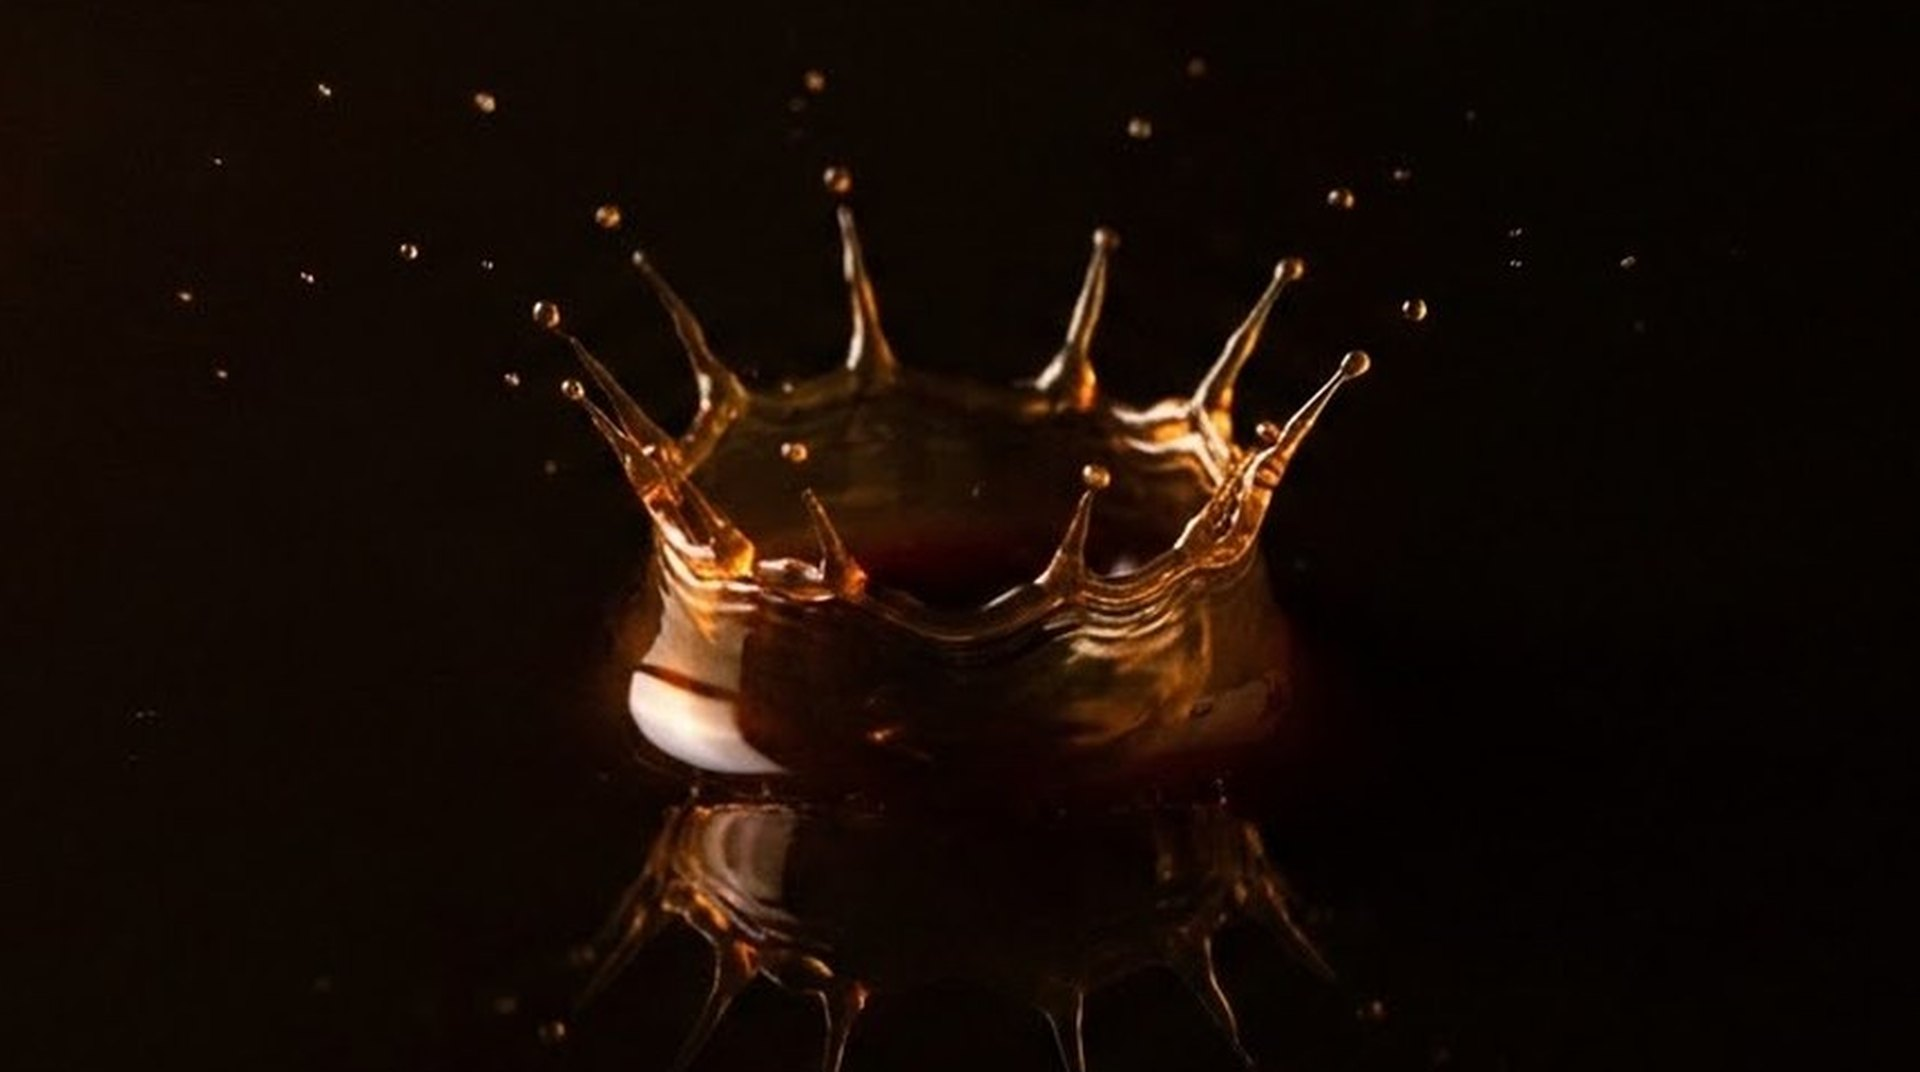
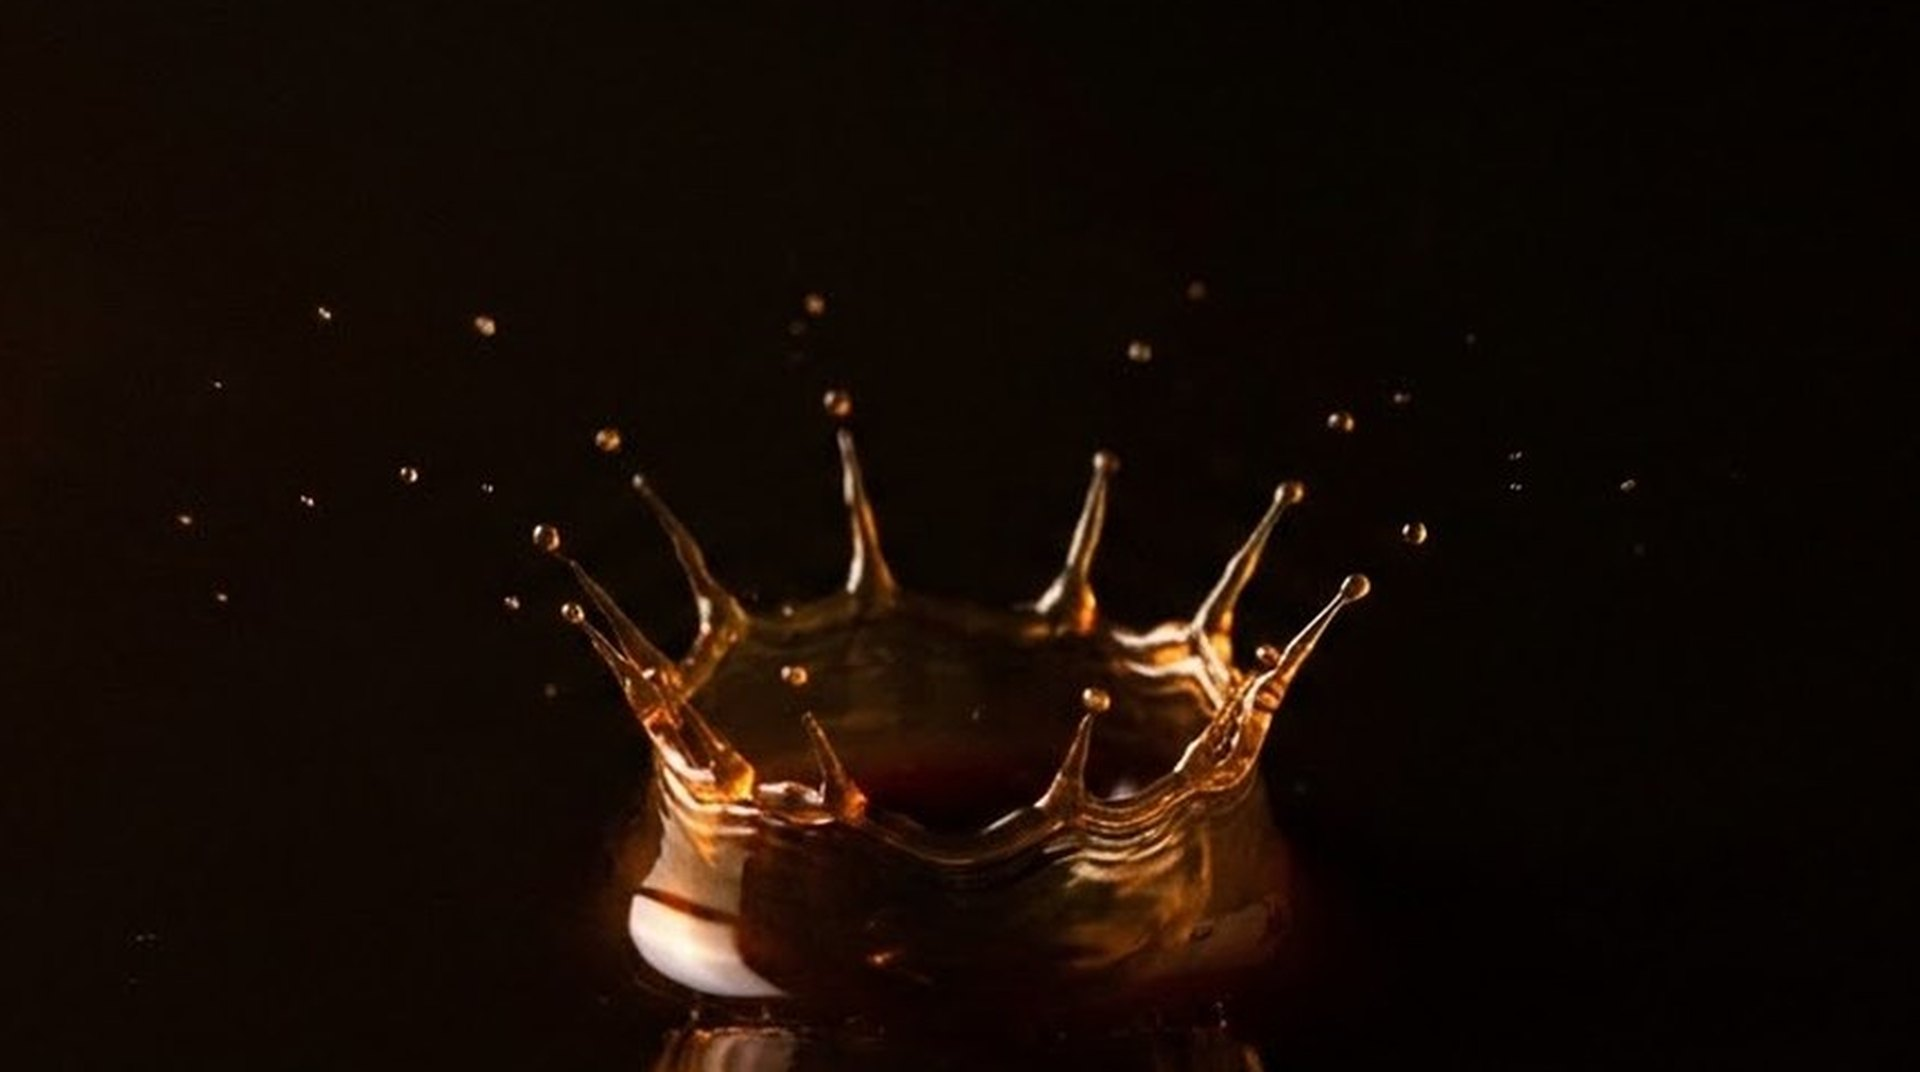
Card pills 44 px; recipe's last pills 8 px over the bottom bar; little Goccio springs out of the + on load; bubbles swell like liquid, dots wave; hero crowns lower; day band 43 px
Claude-Session: https://claude.ai/code/session_01EG6ZDxoaH6KaZCh5hGnxQT

diff --git a/index.html b/index.html
@@ -82,6 +82,11 @@ html body #shelf .item .name:not(.nb){line-height:.98!important}
    pushed down to line up with the card beside them (27/11/2026) */
 html body #shelves .shelf > .item:not(.brewing) > .r{margin-top:var(--below-name, 13px)!important}
 @media (min-width:900px){ html body #shelves .shelf > .item:not(.brewing) > .r{--below-name:10.5px} }
+/* Brew and Buy as tall as the bottom bar's buttons (Cancel, Start brewing): 44 px (27/11/2026) */
+html body .shelf .item > .r > .btn, html body .shelf .item > .r > .pill, html body .shelf .item > .r > .buy-p{height:44px!important;padding:0 16px!important}
+html body .shelf .item > .r > .row-more, html body .shelf .item > .r > .bag-add.ico{width:44px!important;height:44px!important}
+/* the recipe's last buttons (Buy, copy, share) stop as far above the bottom bar's line as its buttons sit below it: 8 px (27/11/2026) */
+@media (max-width:899px){ html.brew-in body .item.brewing{padding-bottom:0!important} html.brew-in body .item.brewing #recipe{padding-bottom:0!important} html.brew-in body .item.brewing #recipe .share{margin-bottom:-10.5px} }
 /* the name stays the big line; the roaster's own notes come right under it, in ink, a size up from the small lines (27/11/2026) */
 #shelf .item .c-notes.nb-line{font:500 24px/1.2 var(--sans);letter-spacing:-.02em;color:var(--ink);margin:4px 0 8px;text-wrap:pretty}
 @media (min-width:1000px){ #shelf .item .c-notes.nb-line{font-size:24px} }
@@ -2847,8 +2852,8 @@ html[data-theme="light"]:is(.film-off,.hero-done) body .wm-screen .wordmark, htm
 html[data-theme="light"]:is(.film-off,.hero-done) body .wm-more .wm-bag{background:var(--pill)!important;color:var(--ink)!important}
 /* the still behind the header once the film has played (seen today): a coffee crown in dark, a milk crown in light, the two splashes
    in the same place (27/11/2026) */
-html.film-off:not([data-theme="light"]) body .wm-screen{background:#000 url("/img/goccio-hero-coffee.jpg?v=2") center var(--hero-y, 62%) / cover no-repeat!important}
-html[data-theme="light"]:is(.film-off,.hero-done) body .wm-screen{background:var(--bg) url("/img/goccio-hero-milk.jpg?v=2") center var(--hero-y, 62%) / cover no-repeat!important}
+html.film-off:not([data-theme="light"]) body .wm-screen{background:#000 url("/img/goccio-hero-coffee.jpg?v=3") center var(--hero-y, 92%) / cover no-repeat!important}
+html[data-theme="light"]:is(.film-off,.hero-done) body .wm-screen{background:var(--bg) url("/img/goccio-hero-milk.jpg?v=3") center var(--hero-y, 92%) / cover no-repeat!important}
 html[data-theme="light"]:is(.film-off,.hero-done) body .wm-screen::after{opacity:1!important;background:linear-gradient(180deg, transparent 55%, var(--bg) 100%)!important}   /* the milk melts into the page */
 /* the film starts at the very top of the screen, under a see-through top bar, and ends on the rule over Coffees */
 html body .wm-video{transform:none!important}
@@ -3132,7 +3137,7 @@ html body .wb-sign .gd-ask input{font-size:15px!important}   /* one size in the 
 /* Goccio thinking: three dots flowing after its words */
 html body .gd-dots{display:inline-flex;gap:3px;margin-left:6px;vertical-align:middle}
 html body .gd-dots i{width:5px;height:5px;border-radius:50%;background:currentColor;animation:gdDot 1.1s ease-in-out infinite}
-html body .gd-dots i:nth-child(2){animation-delay:.18s} html body .gd-dots i:nth-child(3){animation-delay:.36s}
+html body .gd-dots i:nth-child(2){animation-delay:.15s} html body .gd-dots i:nth-child(3){animation-delay:.3s}
 @keyframes gdDot{0%,70%,100%{opacity:.25;translate:0 0}35%{opacity:1;translate:0 -3px}}
 @media (prefers-reduced-motion:reduce){html body .gd-dots i{animation:none;opacity:.6}}
 html body .gd-intro-move{display:flex;align-items:center;justify-content:space-between;gap:12px;margin-top:12px}
@@ -3157,7 +3162,8 @@ html body .gd-typing .gd-dots{margin-left:4px}
 /* the typing bubble, as in iMessage (26/11/2026): a fixed little pill, three even grey dots in its middle that fade in turn */
 html body .gd-m.gd-it.gd-typing:not(:has(> :not(.gd-dots))){display:inline-flex;align-items:center;justify-content:center;box-sizing:border-box;width:58px;height:37px;padding:0}
 html body .gd-m.gd-it.gd-typing:not(:has(> :not(.gd-dots))) .gd-dots{margin:0;gap:5px;color:var(--muted)}
-html body .gd-m.gd-it.gd-typing:not(:has(> :not(.gd-dots))) .gd-dots i{width:7px;height:7px;animation:gdDotFade 1.2s ease-in-out infinite}
+html body .gd-m.gd-it.gd-typing:not(:has(> :not(.gd-dots))) .gd-dots i{width:7px;height:7px;animation:gdDotWave 1.1s ease-in-out infinite}
+@keyframes gdDotWave{0%,55%,100%{translate:0 0;opacity:.45}25%{translate:0 -4px;opacity:1}}   /* the three dots go up and down one after the other, a wave (27/11/2026) */
 @keyframes gdDotFade{0%,60%,100%{opacity:.3;scale:.85}30%{opacity:1;scale:1}}
 @keyframes gdMsgIn{from{scale:.85;opacity:0}to{scale:1;opacity:1}}
 @keyframes gdTb{from{scale:0}to{scale:1}}
@@ -3536,7 +3542,8 @@ html.no-recipe #coffee{min-height:calc(100svh - var(--top-h, 49px) - var(--bot-h
 html:not(.ro-page) body #sh .sh-t{position:absolute!important;width:1px!important;height:1px!important;overflow:hidden!important;clip:rect(0 0 0 0)!important;white-space:nowrap!important}
 html:not(.ro-page) body #shelves > .sec-head:not(:has(.fy-pill:not([hidden]))){height:0!important;min-height:0!important;margin:7px 0 0!important;padding:0!important;overflow:hidden!important}
 html:not(.ro-page) body #shelf > .grp.day-g:first-child, html:not(.ro-page) body #shelf > .grp.bare:first-child + .grp.day-g{margin-top:0!important}
-html:not(.ro-page) body #shelves > #shelf{margin-top:-3.5px!important}   /* and the rule above sits as far under "Every new coffee, with its recipe." as that line sits under the buttons (7 px more room above the rule) */   /* "208 coffees added today" exactly halfway between the rule above it and the one below (11.5 px each side, phone and computer) */
+html:not(.ro-page) body #shelves > #shelf{margin-top:-3.5px!important}
+html:not(.ro-page) body #shelves > .co-tabs ~ #shelf#shelf{margin-top:-2px!important}   /* under the kinds row, the day band is 43 px from line to line, as the row is (it was 41.5, 27/11/2026) */   /* and the rule above sits as far under "Every new coffee, with its recipe." as that line sits under the buttons (7 px more room above the rule) */   /* "208 coffees added today" exactly halfway between the rule above it and the one below (11.5 px each side, phone and computer) */
 html:not(.ro-page) body #shelf > .grp.day-g:not(.stuck) .day-t{visibility:visible!important}
 html:not(.ro-page) body #shelf > .grp.day-g .day-what{display:inline!important}
 html:not(.ro-page) body #shelf > .grp.day-g:not(.stuck)::after{opacity:1!important}
@@ -3551,7 +3558,7 @@ html body #askLbl{position:absolute!important;width:1px!important;height:1px!imp
 /* 27/11/2026, the same air either side of every line in the list: a coffee's Brew and Buy sit as far above its closing line (16 px) as its
    roaster's name sits under the line that opens it; the day's count sits in the exact middle of its two lines (cap height to baseline) */
 html body #shelf .item{padding-bottom:16px!important}
-html body #shelf > .grp.day-g .day-t{position:relative;top:.25px}   /* the words midway between the line above and the line below (27/11/2026) */
+html body #shelf > .grp.day-g .day-t{position:relative;top:-.25px}   /* the words midway between the line above and the line below (27/11/2026) */
 
 /* 27/11/2026, a roaster's page: its top line as far under "Read the bag" as the list's line on the homepage, and Visit shop and Follow
    in a row under the place line, as Brew and Buy sit under a coffee, the same 16 px over the closing line */
@@ -12075,8 +12082,11 @@ html.ro-page body #roHead{margin-top:-6px!important}   /* the place line a littl
           // bubble, and the words fade in behind it
           if (ms && m.animate && !matchMedia("(prefers-reduced-motion: reduce)").matches) { const r1 = m.getBoundingClientRect(), ink = getComputedStyle(m).color, rr = getComputedStyle(m).borderRadius || "16px";
             const dx = Math.max(0, r1.width - r0.width), dy = Math.max(0, r1.height - r0.height);
-            m.animate([{ clipPath: `inset(0 ${dx}px ${dy}px 0 round 18px)` }, { clipPath: `inset(0 0 0 0 round ${rr})` }], { duration: 300, easing: "cubic-bezier(.2,.8,.2,1)" });
-            m.animate([{ color: "transparent" }, { color: "transparent", offset: 0.35 }, { color: ink }], { duration: 380, easing: "ease-out" }); }
+            // like liquid (27/11/2026): the dots' bubble swells into the message from its corner by Goccio, a touch past its size, then settles
+            const sx = Math.min(1, r0.width / r1.width), sy = Math.min(1, r0.height / r1.height);
+            m.style.transformOrigin = "0 100%";
+            m.animate([{ transform: `scale(${sx}, ${sy})` }, { transform: "scale(1.03, 1.05)", offset: 0.5 }, { transform: "scale(.992, .985)", offset: 0.75 }, { transform: "none" }], { duration: 520, easing: "cubic-bezier(.3,.7,.4,1)" });
+            m.animate([{ color: "transparent" }, { color: "transparent", offset: 0.4 }, { color: ink }], { duration: 480, easing: "ease-out" }); }
           if (!free) requestAnimationFrame(() => toTop(anchor)); }, ms); }
       showChips(chips); if (CALM) mood = null;
       if (ask2) { const g2 = sayGen, pl2 = nextPills || [[T("Yes", "Sì"), T("Yes", "Sì")], [T("No", "No"), T("No thanks", "No grazie")]]; nextPills = null;   /* "Want to see it?" in a second message once the first is written, then the Yes / No pills */
@@ -13276,7 +13286,15 @@ html.ro-page body #roHead{margin-top:-6px!important}   /* the place line a littl
         const watchBig = () => new IntersectionObserver((es) => es.forEach((e) => set(e.isIntersecting)), { threshold: .3 }).observe(el);
         if (!document.documentElement.classList.contains("wait")) watchBig();
         else new MutationObserver((m, o) => { if (document.documentElement.classList.contains("wait")) return; o.disconnect(); watchBig(); }).observe(document.documentElement, { attributes: true, attributeFilter: ["class"] });
-        plus.addEventListener("animationend", (e) => { if (e.animationName === "agGulp" || e.animationName === "agSpit" || (e.animationName === "drop-p" && plus.classList.contains("spit"))) plus.classList.remove("gulp", "spit"); }); } }
+        plus.addEventListener("animationend", (e) => { if (e.animationName === "agGulp" || e.animationName === "agSpit" || (e.animationName === "drop-p" && plus.classList.contains("spit"))) plus.classList.remove("gulp", "spit"); });
+        // every load: he starts inside the + and the + squeezes him out, the same liquid spring as coming back from the big Goccio (27/11/2026)
+        { const H0 = document.documentElement, qs = [tb, tb.parentElement && tb.parentElement.querySelector(".ask-box")].filter(Boolean);
+          if (!matchMedia("(prefers-reduced-motion: reduce)").matches) {
+            qs.forEach((x) => x.style.setProperty("transition", "none", "important")); tb.classList.add("ag-gone"); void tb.offsetWidth;
+            requestAnimationFrame(() => qs.forEach((x) => x.style.removeProperty("transition")));
+            const out = () => { if (gone) return; tb.classList.remove("ag-gone", "ag-out"); plus.classList.remove("gulp", "spit"); void plus.offsetWidth; plus.classList.add("spit"); tb.classList.add("ag-out"); };
+            const go = () => { if (H0.classList.contains("wait")) return setTimeout(go, 120); setTimeout(out, 450); };
+            go(); } } } }
     // the little Goccio is simply in its pill from the first moment: no fly-in, no hello bubble, no hints
     const isQuestion = (t) => /\?\s*$/.test(t) || /^(goccio\b|hey goccio|hi goccio|ciao goccio|what|why|how|who|where|when|which|is it|are|does|do i|can|should|tell me|explain|cos|perch[eé]|come mai|come si|quando|dove|chi|quant[oai])\b/i.test(t.trim());
     $("askForm").addEventListener("submit", (e) => { const a = $("askIn"), t = a.value.trim(); if (window.__gdSearching || !t || !isQuestion(t)) return;
